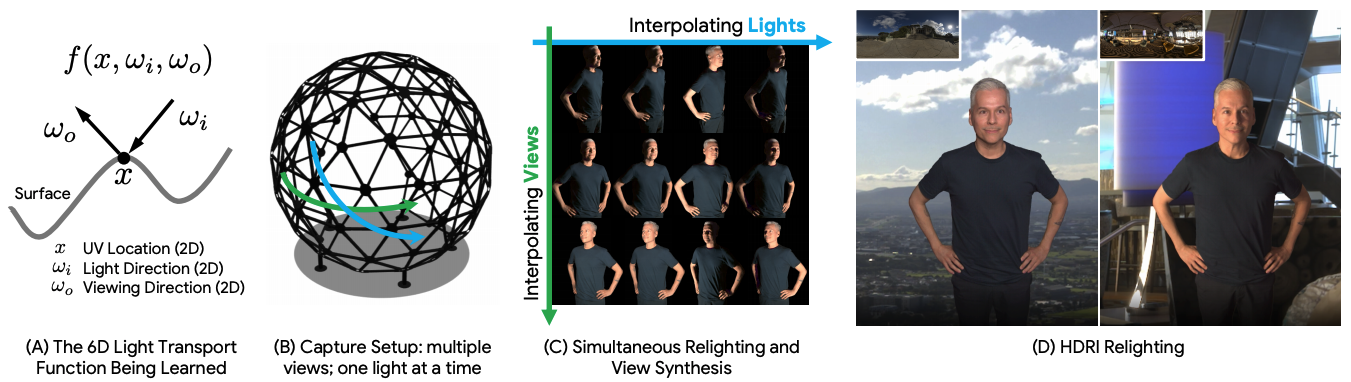
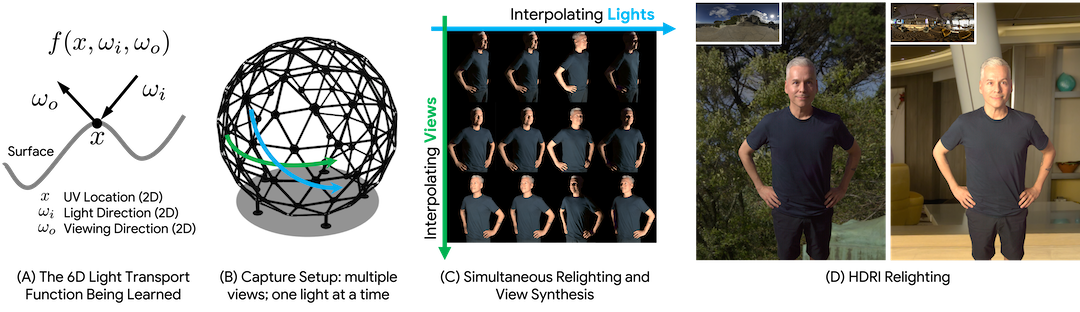
updates teaser and v2 video link

diff --git a/README.md b/README.md
@@ -2,7 +2,8 @@
 
 [[Project]](http://nlt.csail.mit.edu/)
 [[Paper]](http://nlt.csail.mit.edu/assets/nlt.pdf)
-[[Video]](http://nlt.csail.mit.edu/assets/nlt.mp4)
+[[arXiv]](https://arxiv.org/abs/2008.03806)
+[[Video]](https://www.youtube.com/watch?v=OGEnCWZihHE)
 [[BibTeX]](http://nlt.csail.mit.edu/assets/nlt.bib)
 
 ![teaser](assets/teaser.png)
